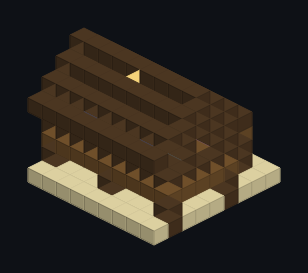
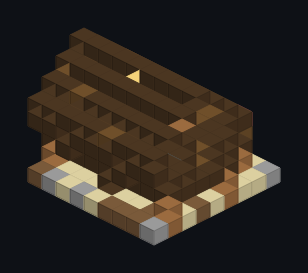
feat(world): palm stilts, boarded walls, shutters and roped porch for the captain's hut (st4b)

diff --git a/art/structures/pirate_island/captains_hut.py b/art/structures/pirate_island/captains_hut.py
@@ -1,11 +1,18 @@
 """Generates the pirate captain's hut (9x5 rooms on stilts, a porch, a dark oak thatch roof) and prints the BuildSpec
 as JSON. The steps, the door and the hut connector are on the north (-z) side.
 
-The floor is raised one block on stripped log stilts (rows y 0..1; y 0 is the foundation row in the ground, so a
-block of stilt shows), the porch runs along the front with a rail, and two stairs lead up from the sand at the hut
-connector. Inside: a bed, a cartography table with a map tile on it and a stool, the captain's sea chest, a
-hanging lantern and a cobweb."""
-from _style import PALETTE, THATCH, bed, stool
+The floor is raised one block on stilts (rows y 0..1; y 0 is the foundation row in the ground, so a block of stilt
+shows), the porch runs along the front with a rope rail, and two stairs lead up from the sand at the hut connector.
+Inside: a bed, a cartography table with a map tile on it and a stool, the captain's sea chest, a hanging lantern and
+a cobweb.
+
+ST4b: palm trunk stilts at the corners, a sill beam of stripped dark oak round the floor, walls of vertical dark and
+spruce boards between stripped corner posts, a door framed by dark posts, shuttered windows (sills on the back, where
+the porch does not need the room), gables on a tie beam with a king post and a vent, rafter ends under the back eave,
+a patched thatch roof, rope rails and a skull on the porch, a lantern post at the steps, salvage stowed between the
+stilts, a rug and the captain's black banner inside, and gravel and coarse dirt round the stilts."""
+from _style import (PALETTE, THATCH, bed, jit, lantern_post, rafter_ends, roof_patches, rope_rail, sand_skirt,
+                    shutter_window, stool, weatherboard)
 from buildspec import Piece
 
 X0, X1 = 0, 8
@@ -13,50 +20,92 @@ Z0, Z1 = 3, 7          # the room's walls
 PORCH = 1              # the porch is z 1..2
 FLOOR = 2              # the floor boards; walls y 3..4, roof plate y 5
 TOP = 4
+DOOR = 4
 
 p = Piece("pirate_island_captains_hut", "Pirate Captain's Hut", (X1 + 1, 9, Z1 + 2), PALETTE)
 
 p.fill(X0, 0, 0, X1, 0, Z1 + 1, "sand")
+# the shade under the hut: coarse dirt and gravel among the sand, the usual skirt in front and behind
+for x in range(X0, X1 + 1):
+    for z in range(PORCH, Z1 + 1):
+        r = jit(x, 0, z, 41)
+        if r < 330:
+            p.put(x, 0, z, "coarse" if r < 220 else "gravel")
+sand_skirt(p, X0, PORCH, X1, Z1, reach=1, salt=42)
 
-# stilts under the room's corners and middles and under the porch's front corners, on the sand
-for x in (X0, 4, X1):
+# stilts: palm trunks under the room's corners and the porch's front corners, stripped dark oak in the middles
+for x in (X0, X1):
     for z in (Z0, Z1):
-        p.fill(x, 0, z, x, FLOOR - 1, z, "dark_post")
+        p.fill(x, 0, z, x, FLOOR - 1, z, "palm")
+for z in (Z0, Z1):
+    p.fill(DOOR, 0, z, DOOR, FLOOR - 1, z, "dark_post")
 for x in (1, 7):
-    p.fill(x, 0, PORCH, x, FLOOR - 1, PORCH, "dark_post")
+    p.fill(x, 0, PORCH, x, FLOOR - 1, PORCH, "palm")
+# salvage stowed between the stilts
+p.put(2, 1, 5, "minecraft:barrel[facing=east,open=false]")
+p.put(6, 1, 4, "pirates_n_ships:cargo_crate")
+p.put(6, 1, 6, "minecraft:barrel[facing=up,open=false]")
 
-# the floor and the porch
+# the floor with a sill beam round its edge, and the porch
 p.fill(X0, FLOOR, Z0, X1, FLOOR, Z1, "spruce")
+p.fill(X0, FLOOR, Z0, X1, FLOOR, Z0, "dark_beam_x")
+p.fill(X0, FLOOR, Z1, X1, FLOOR, Z1, "dark_beam_x")
+p.fill(X0, FLOOR, Z0 + 1, X0, FLOOR, Z1 - 1, "dark_beam_z")
+p.fill(X1, FLOOR, Z0 + 1, X1, FLOOR, Z1 - 1, "dark_beam_z")
 p.fill(1, FLOOR, PORCH, 7, FLOOR, Z0 - 1, "spruce")
+p.put(3, FLOOR, 2, "minecraft:jungle_planks")
 p.fill(1, FLOOR, PORCH, 7, FLOOR, PORCH, "beam_x")
 # two steps up from the sand at the connector
-p.put(4, 1, 0, "minecraft:spruce_stairs[facing=south,half=bottom,shape=straight,waterlogged=false]")
-p.put(4, FLOOR, PORCH, "minecraft:spruce_stairs[facing=south,half=bottom,shape=straight,waterlogged=false]")
+p.put(DOOR, 1, 0, "minecraft:spruce_stairs[facing=south,half=bottom,shape=straight]")
+p.put(DOOR, FLOOR, PORCH, "minecraft:spruce_stairs[facing=south,half=bottom,shape=straight]")
 
-# walls: dark oak planks between stripped spruce posts
+# walls: vertical dark and spruce boards between stripped corner posts, the door between dark frame posts
 p.ring(X0, Z0, X1, Z1, FLOOR + 1, TOP, "dark")
-for x in (X0, 4, X1):
+weatherboard(p, X0, FLOOR + 1, Z0, X1, TOP, Z0, salt=1)
+weatherboard(p, X0, FLOOR + 1, Z1, X1, TOP, Z1, salt=2)
+weatherboard(p, X0, FLOOR + 1, Z0, X0, TOP, Z1, salt=3)
+weatherboard(p, X1, FLOOR + 1, Z0, X1, TOP, Z1, salt=4)
+for x in (X0, X1):
     for z in (Z0, Z1):
         p.fill(x, FLOOR + 1, z, x, TOP, z, "post")
-p.put(4, FLOOR + 1, Z0, "minecraft:spruce_door[facing=north,half=lower,hinge=left,open=false,powered=false]")
-p.put(4, FLOOR + 2, Z0, "minecraft:spruce_door[facing=north,half=upper,hinge=left,open=false,powered=false]")
-for x, z in ((2, Z0), (6, Z0), (X0, 5), (X1, 5), (2, Z1), (6, Z1)):
-    p.put(x, FLOOR + 2, z, "minecraft:spruce_trapdoor[facing=south,half=top,open=false,powered=false,waterlogged=false]"
-          if z in (Z0, Z1) else "fence")
+for x in (DOOR - 1, DOOR + 1):
+    p.fill(x, FLOOR + 1, Z0, x, TOP, Z0, "dark_post")
+p.fill(DOOR, FLOOR + 1, Z1, DOOR, TOP, Z1, "dark_post")
+p.put(DOOR, FLOOR + 1, Z0, "minecraft:spruce_door[facing=north,half=lower,hinge=left,open=false,powered=false]")
+p.put(DOOR, FLOOR + 2, Z0, "minecraft:spruce_door[facing=north,half=upper,hinge=left,open=false,powered=false]")
 
-# porch: posts holding the front eave, a rail on both sides of the steps
+# porch: palm posts holding the front eave, a rope rail on both sides of the steps, a skull on the east rail post
 for x in (1, 7):
-    p.fill(x, FLOOR + 1, Z0 - 1, x, TOP, Z0 - 1, "post")
-for x in (1, 2, 3, 5, 6, 7):
-    p.put(x, FLOOR + 1, PORCH, "fence")
+    p.fill(x, FLOOR + 1, Z0 - 1, x, TOP, Z0 - 1, "palm")
+rope_rail(p, 1, PORCH, 3, PORCH, FLOOR + 1)
+rope_rail(p, 5, PORCH, 7, PORCH, FLOOR + 1)
+p.put(7, FLOOR + 2, PORCH, "minecraft:skeleton_skull[powered=false,rotation=8]")
 
-# roof: ridge along x, eave over the porch's back half (z 2) and the back (z 8)
+# windows: shutters on the front (no sills: the porch is one block deep), shutters and sills on the back
+for x in (2, 6):
+    shutter_window(p, x, TOP, Z0, "north", sill=False, wood="dark_oak")
+    shutter_window(p, x, TOP, Z1, "south", wood="dark_oak")
+
+# roof: ridge along x, eave over the porch's back half (z 2) and the back (z 8), mended with spruce
 p.roof_ridge_x(X0, X1, Z0, Z1, TOP + 1, THATCH, "thatch_ridge", "dark", plate="beam_x")
+roof_patches(p, salt=51)
 for z in (Z0, Z1):
     p.put(X0, TOP + 1, z, "post")
     p.put(X1, TOP + 1, z, "post")
+# the gables: a tie beam, vertical boards, a king post and a vent
+for x in (X0, X1):
+    p.fill(x, TOP + 1, Z0 + 1, x, TOP + 1, Z1 - 1, "dark_beam_z")
+    weatherboard(p, x, TOP + 2, Z0, x, TOP + 3, Z1, keys=("spruce", "dark"), salt=5 + x)
+    p.put(x, TOP + 2, 5, "fence")
+    p.put(x, TOP + 3, 5, "dark_post")
+    p.put(x, TOP, 5, "fence")                 # the side window
+rafter_ends(p, [(X0, Z1 + 1), (DOOR, Z1 + 1), (X1, Z1 + 1)], TOP, "north")
 
-# inside: the bed in the west corner, the map table and stool, the sea chest by the east wall
+# a lantern post at the foot of the steps, a barrel on the other side
+lantern_post(p, 3, 1, 0)
+p.put(5, 1, 0, "barrel")
+
+# inside: the bed in the west corner, the map table and stool, the sea chest by the east wall, a rug, the banner
 bed(p, 1, FLOOR + 1, 5, "south")
 p.put(1, FLOOR + 1, 4, "minecraft:barrel[facing=up,open=false]")
 p.put(1, FLOOR + 2, 4, "lantern")
@@ -65,11 +114,14 @@ p.put(5, FLOOR + 2, 6, "pirates_n_ships:map_tile[face=floor,facing=north]")
 stool(p, 5, FLOOR + 1, 5, "north")
 p.put(7, FLOOR + 1, 6, "pirates_n_ships:sea_chest[facing=west]")
 p.put(7, FLOOR + 1, 4, "pirates_n_ships:cargo_crate")
+p.fill(2, FLOOR + 1, 5, 3, FLOOR + 1, 6, "minecraft:red_carpet")
+p.put(DOOR, TOP, Z1 - 1, "minecraft:black_wall_banner[facing=north]")
 p.put(4, 7, 5, "lantern_hanging")
 p.put(7, TOP, 6, "cobweb")
 
-p.connector(4, 0, 0, "hut_in", "north", "minecraft:sand")
+p.connector(DOOR, 0, 0, "hut_in", "north", "minecraft:sand")
 
-p.emit("captain's hut on stilts with a porch, bed, map table and sea chest under a dark oak thatch roof",
+p.emit("captain's hut on palm stilts with a roped porch, shuttered windows, bed, map table and sea chest under a "
+       "patched dark oak thatch roof",
        ["Faces north: the steps, the door and the hut_in connector are on the -z side.",
         "y 0 is the foundation row (stilt feet in the ground); the floor is y 2."])
